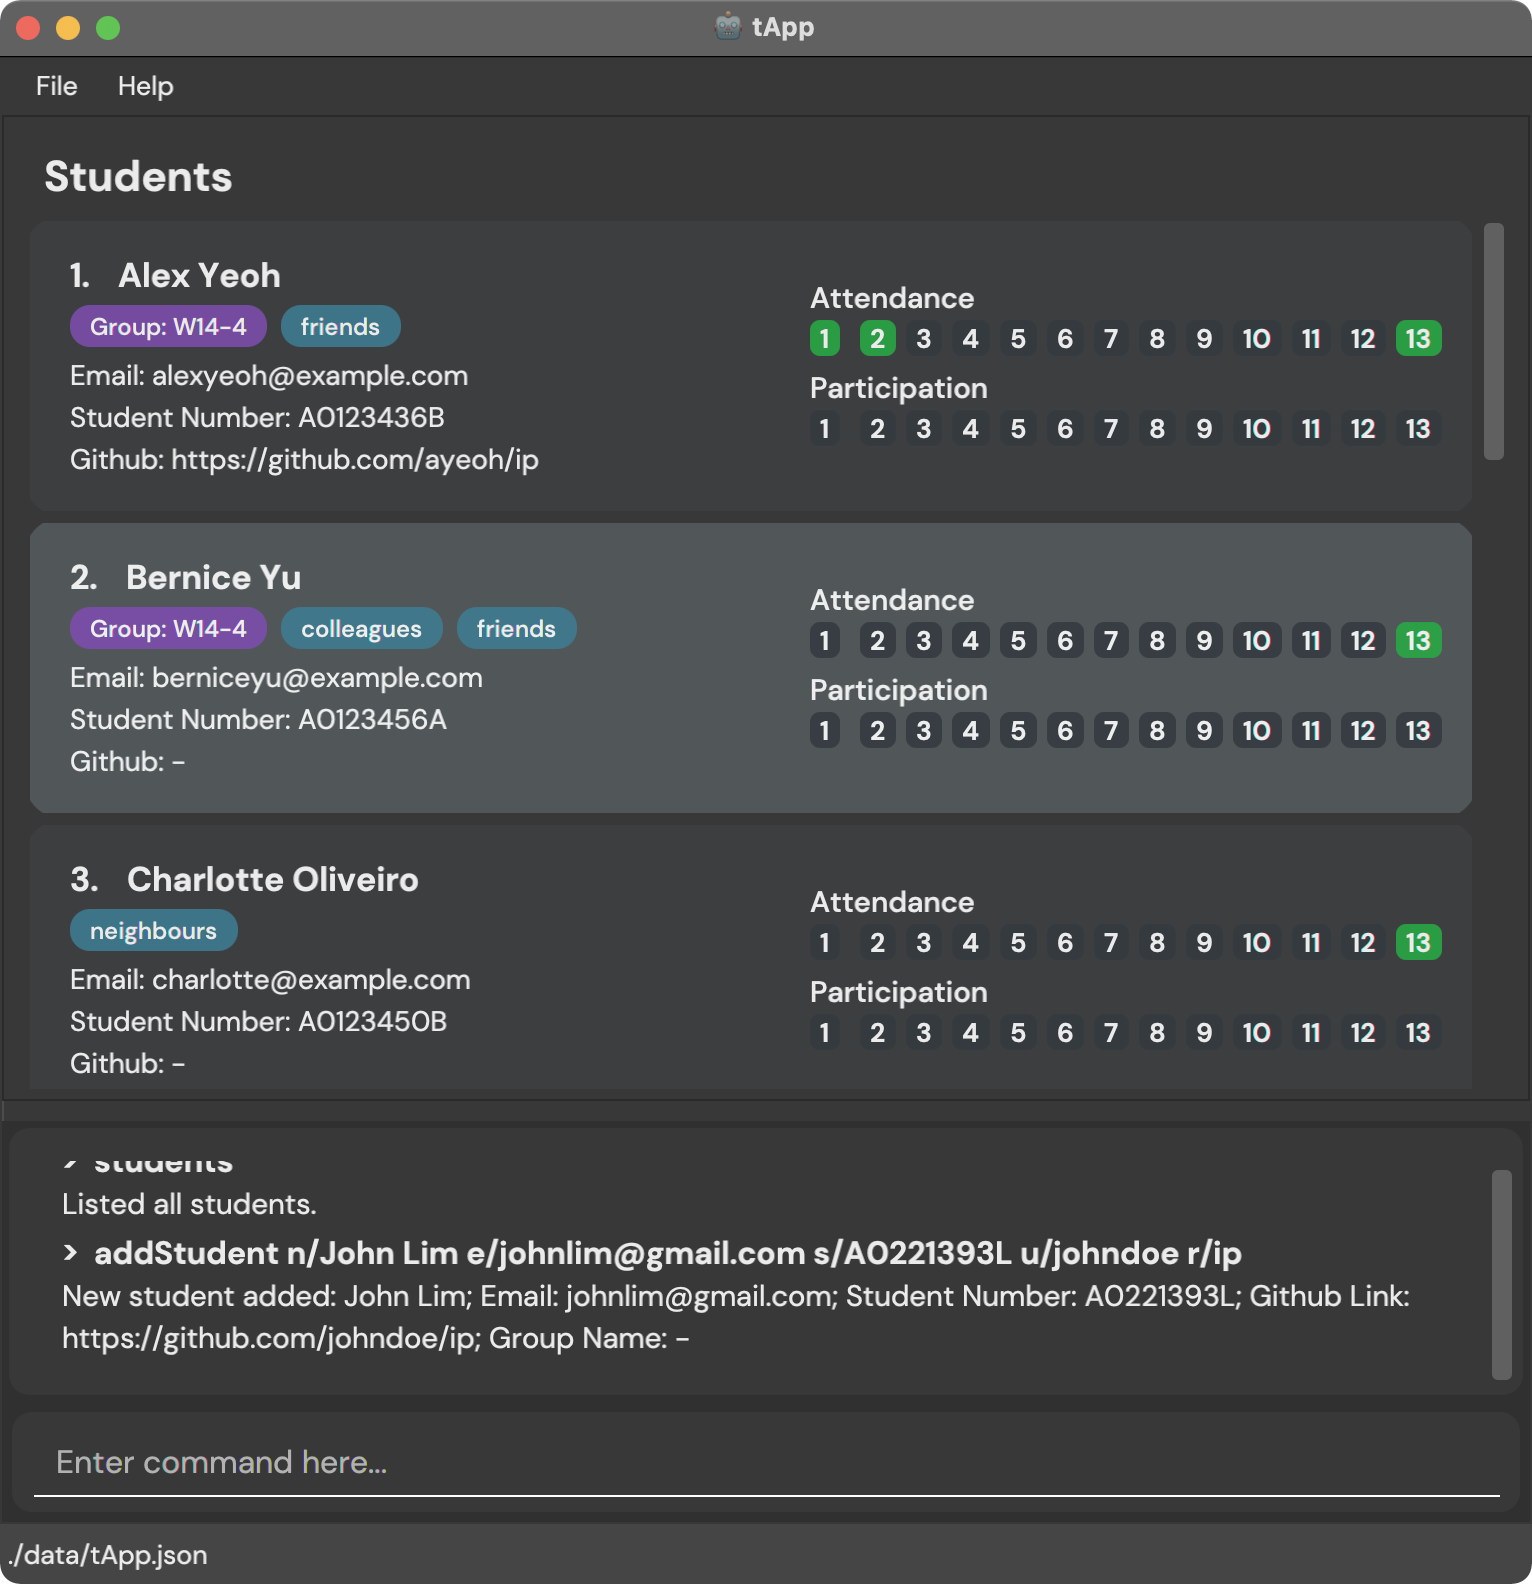
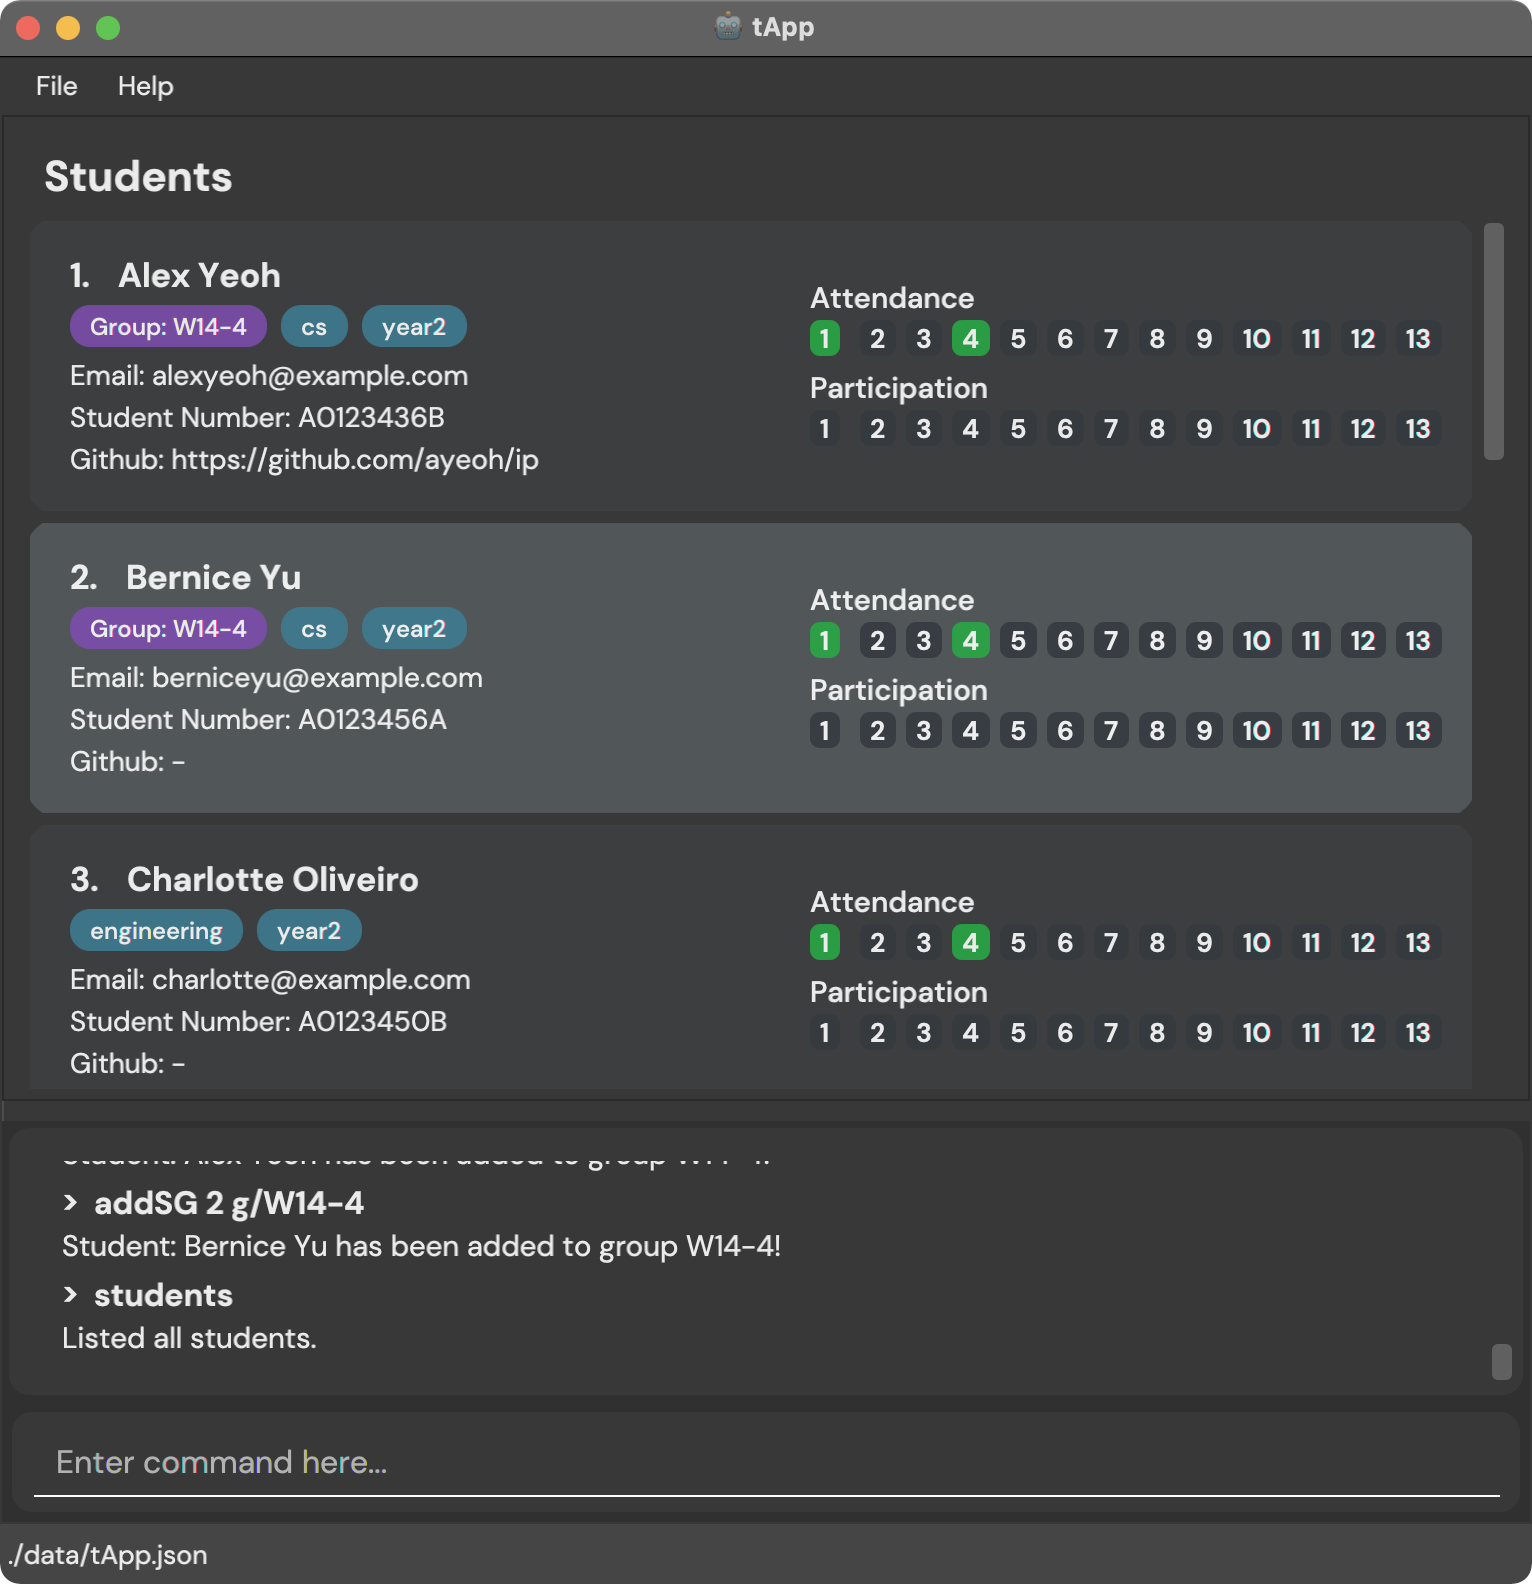
Update images

diff --git a/src/main/java/seedu/address/model/util/SampleDataUtil.java b/src/main/java/seedu/address/model/util/SampleDataUtil.java
@@ -25,22 +25,22 @@ public class SampleDataUtil {
     public static Student[] getSampleStudents() {
         return new Student[] {
             new Student(new Name("Alex Yeoh"), new Email("alexyeoh@example.com"), new StudentNumber("A0123436B"),
-                    new UserName("ayeoh"), new RepoName("ip"), getTagSet("friends"),
+                    new UserName("ayeoh"), new RepoName("ip"), getTagSet("year2", "cs"),
                     getDefaultAttendance(), getDefaultParticipation(), new GroupName()),
             new Student(new Name("Bernice Yu"), new Email("berniceyu@example.com"), new StudentNumber("A0123456A"),
-                    new UserName("BYU"), null, getTagSet("colleagues", "friends"),
+                    new UserName("BYU"), null, getTagSet("year2", "cs"),
                     getDefaultAttendance(), getDefaultParticipation(), new GroupName()),
             new Student(new Name("Charlotte Oliveiro"), new Email("charlotte@example.com"),
-                    new StudentNumber("A0123450B"), null, null, getTagSet("neighbours"),
+                    new StudentNumber("A0123450B"), null, null, getTagSet("year2", "engineering"),
                     getDefaultAttendance(), getDefaultParticipation(), new GroupName()),
             new Student(new Name("David Li"), new Email("lidavid@example.com"), new StudentNumber("A0123956B"),
-                    null, new RepoName("repo"), getTagSet("family"),
+                    null, new RepoName("repo"), getTagSet("year3"),
                     getDefaultAttendance(), getDefaultParticipation(), new GroupName()),
             new Student(new Name("Irfan Ibrahim"), new Email("irfan@example.com"), new StudentNumber("A0823456B"),
-                    new UserName("IrIb"), new RepoName("myRepo"), getTagSet("classmates"),
+                    new UserName("IrIb"), new RepoName("myRepo"), getTagSet("year3"),
                     getDefaultAttendance(), getDefaultParticipation(), new GroupName()),
             new Student(new Name("Roy Balakrishnan"), new Email("royb@example.com"), new StudentNumber("A1123456B"),
-                    null, null, getTagSet("colleagues"),
+                    null, null, getTagSet("year1"),
                     getDefaultAttendance(), getDefaultParticipation(), new GroupName()),
         };
     }

diff --git a/src/test/java/seedu/address/testutil/StudentBuilder.java b/src/test/java/seedu/address/testutil/StudentBuilder.java
@@ -128,7 +128,7 @@ public class StudentBuilder {
      * Sets the {@code Participation} of the {@code Student} that we are building.
      */
     public StudentBuilder withParticipation(Integer... integers) {
-        this.attendance = SampleDataUtil.getAttendanceList(integers);
+        this.participation = SampleDataUtil.getParticipationList(integers);
         return this;
     }
 

diff --git a/docs/team/wanninglim.md b/docs/team/wanninglim.md
@@ -1,0 +1,6 @@
+---
+layout: page
+title: Wan Ning's Project Portfolio Page
+---
+
+### Project: tApp
